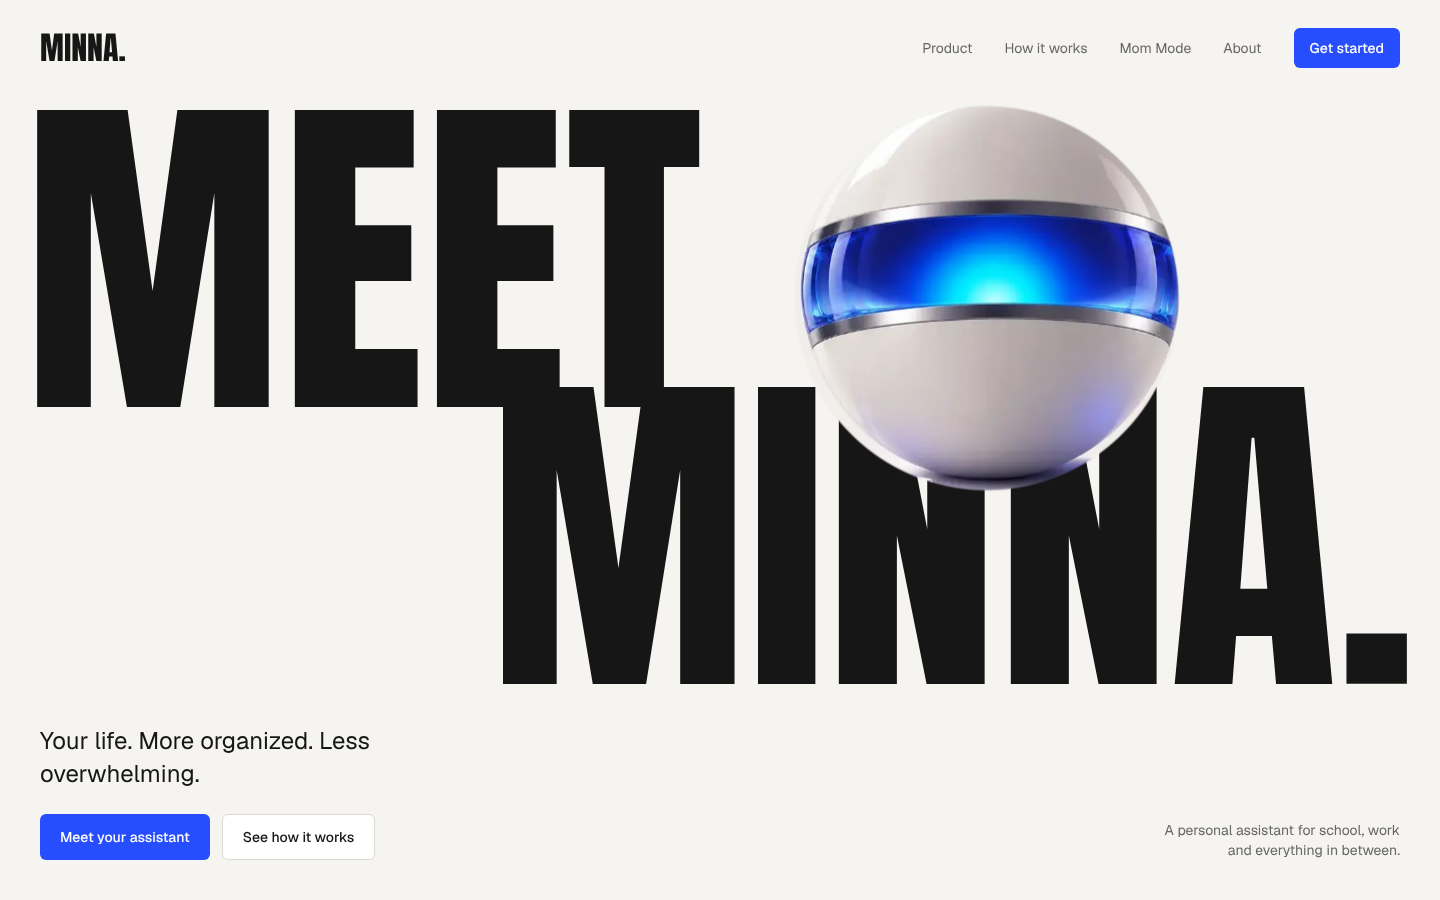
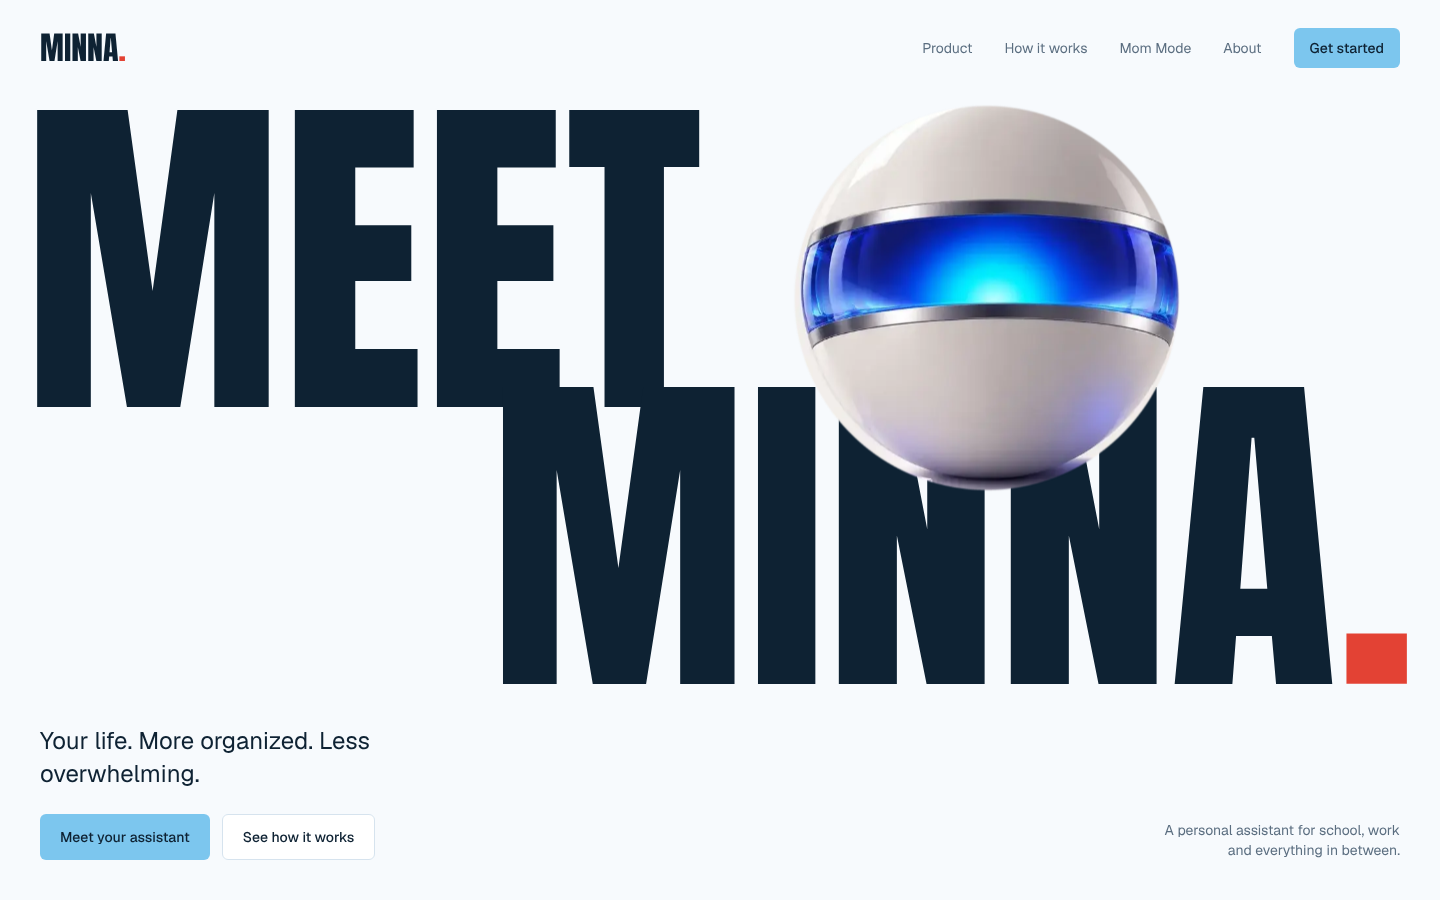
Ny färgpalett: sky blue, cloud white och en touch av vermilion
- Cloud white bakgrund, sky blue som huvudfärg och djup marinblå text
- Vermilion som accent: punkten i loggan, aktiv sida och försenade saker
- Ny appikon i samma färger
- Fokusmarkeringen ligger i bas-lagret så att chattfältet inte får dubbel ram

Claude-Session: https://claude.ai/code/session_01CW3ZXuVJwcVVBkkZ13PSsq

diff --git a/src/app/globals.css b/src/app/globals.css
@@ -2,14 +2,17 @@
 
 /* Design tokens */
 :root {
-  --bg: #f5f4f0;
-  --bg-2: #eae9e4;
-  --ink: #161616;
-  --ink-2: #666662;
-  --accent: #264eff;
-  --accent-light: #a8c8ff;
+  /* Cloud white, sky blue and a touch of vermilion */
+  --bg: #f7fafd;
+  --bg-2: #e6f3fb;
+  --ink: #0e2233;
+  --ink-2: #5b6e80;
+  --accent: #7cc6ee;
+  --accent-ink: #1f7dbf;
+  --accent-light: #cfeaf9;
   --surface: #ffffff;
-  --line: #dad9d3;
+  --line: #d6e3ee;
+  --vermilion: #e34234;
   --amber: #e5a73a;
   color-scheme: light;
 }
@@ -20,6 +23,8 @@
   --color-ink: var(--ink);
   --color-ink-2: var(--ink-2);
   --color-accent: var(--accent);
+  --color-accent-ink: var(--accent-ink);
+  --color-vermilion: var(--vermilion);
   --color-accent-light: var(--accent-light);
   --color-surface: var(--surface);
   --color-line: var(--line);
@@ -45,9 +50,11 @@ body {
   color: var(--ink);
 }
 
-:focus-visible {
-  outline: 2px solid var(--accent);
-  outline-offset: 2px;
+@layer base {
+  :focus-visible {
+    outline: 2px solid var(--accent-ink);
+    outline-offset: 2px;
+  }
 }
 
 @layer components {
@@ -69,7 +76,7 @@ body {
   }
 
   .btn-primary {
-    @apply inline-flex items-center justify-center gap-2 rounded-md bg-accent px-4 py-2.5 text-sm font-medium text-white transition-colors hover:bg-[#1a3fe6] active:bg-[#1435cc] disabled:cursor-not-allowed disabled:opacity-40;
+    @apply inline-flex items-center justify-center gap-2 rounded-md bg-accent px-4 py-2.5 text-sm font-medium text-ink transition-colors hover:bg-[#62b9e8] active:bg-[#4faee2] disabled:cursor-not-allowed disabled:opacity-40;
   }
   .btn-secondary {
     @apply inline-flex items-center justify-center gap-2 rounded-md border border-line bg-surface px-4 py-2.5 text-sm font-medium text-ink transition-colors hover:border-ink/40;
@@ -82,7 +89,7 @@ body {
   }
 
   .input {
-    @apply w-full rounded-md border border-line bg-surface px-3 py-2.5 text-base text-ink outline-none transition-colors placeholder:text-ink-2/70 focus:border-accent sm:text-sm;
+    @apply w-full rounded-md border border-line bg-surface px-3 py-2.5 text-base text-ink outline-none transition-colors placeholder:text-ink-2/70 focus:border-accent-ink sm:text-sm;
   }
   .label {
     @apply mb-1.5 block text-xs font-medium text-ink-2;

diff --git a/src/app/page.tsx b/src/app/page.tsx
@@ -33,7 +33,7 @@ export default function Home() {
       <header className="absolute inset-x-0 top-0 z-30">
         <div className="mx-auto flex max-w-[1600px] items-center justify-between px-5 py-5 sm:px-10 sm:py-7">
           <Link href="/" className="display text-[28px] tracking-normal sm:text-[32px]">
-            Minna.
+            Minna<span className="text-vermilion">.</span>
           </Link>
           <nav className="flex items-center gap-8 text-sm" aria-label="Main">
             {NAV.map((n) => (
@@ -58,7 +58,7 @@ export default function Home() {
                 className="block animate-rise text-right text-[31vw] leading-[0.8] sm:text-[24vw] 2xl:text-[23rem]"
                 style={{ animationDelay: "120ms" }}
               >
-                Minna.
+                Minna<span className="text-vermilion">.</span>
               </span>
             </h1>
             {/* The Core sits in front of the type: beside "Meet", cutting into the top of "Minna." */}
@@ -96,7 +96,7 @@ export default function Home() {
               <h2 id="product-title" className="display mt-4 text-[19vw] sm:text-[13vw] xl:text-[12rem]">
                 Your life.
                 <br />
-                <span className="text-accent">Handled.</span>
+                <span className="text-accent-ink">Handled.</span>
               </h2>
             </Reveal>
           </div>
@@ -328,7 +328,7 @@ export default function Home() {
           </div>
 
           <footer className="mx-auto mt-24 flex max-w-[1600px] flex-col gap-4 border-t border-line px-5 pt-6 text-sm text-ink-2 sm:flex-row sm:items-center sm:justify-between sm:px-10">
-            <span className="display text-2xl tracking-normal text-ink">Minna.</span>
+            <span className="display text-2xl tracking-normal text-ink">Minna<span className="text-vermilion">.</span></span>
             <nav className="flex flex-wrap gap-6" aria-label="Footer">
               {NAV.map((n) => (
                 <a key={n.href} href={n.href} className="hover:text-ink">

diff --git a/src/app/app/chat/page.tsx b/src/app/app/chat/page.tsx
@@ -268,11 +268,11 @@ export default function ChatPage() {
                 {suggestions.map((s) => (
                   <li key={s}>
                     <button
-                      className="group flex w-full items-center justify-between border-b border-line py-3 text-left transition-colors hover:text-accent"
+                      className="group flex w-full items-center justify-between border-b border-line py-3 text-left transition-colors hover:text-accent-ink-ink"
                       onClick={() => send(s)}
                     >
                       <span>{s}</span>
-                      <span className="text-ink-2 transition-transform group-hover:translate-x-1 group-hover:text-accent" aria-hidden>
+                      <span className="text-ink-2 transition-transform group-hover:translate-x-1 group-hover:text-accent-ink" aria-hidden>
                         →
                       </span>
                     </button>
@@ -380,7 +380,7 @@ function MessageView({ msg, actions, onUndo }: { msg: ChatMessage; actions: Reco
             if (!a) return null;
             return (
               <li key={t.id} className={`flex items-baseline gap-3 py-1 text-sm ${a.undone ? "line-through opacity-40" : ""}`}>
-                <span className={`w-24 shrink-0 text-xs font-medium uppercase tracking-wide ${a.error ? "text-[#b42318]" : "text-accent"}`}>
+                <span className={`w-24 shrink-0 text-xs font-medium uppercase tracking-wide ${a.error ? "text-[#b42318]" : "text-accent-ink"}`}>
                   {a.undone ? "Undone" : a.label}
                 </span>
                 <span className="min-w-0 flex-1">{a.text}</span>

diff --git a/src/components/AppShell.tsx b/src/components/AppShell.tsx
@@ -56,7 +56,7 @@ export function AppShell({ children }: { children: React.ReactNode }) {
       <NagEngine />
       <aside className="hidden md:flex md:w-56 md:shrink-0 md:flex-col md:sticky md:top-0 md:h-dvh border-r border-line px-6 py-7">
         <Link href="/" className="display text-[28px] tracking-normal mb-10">
-          Minna.
+          Minna<span className="text-vermilion">.</span>
         </Link>
         <nav className="flex flex-col gap-0.5" aria-label="App">
           {nav.map((n) => {
@@ -81,7 +81,7 @@ export function AppShell({ children }: { children: React.ReactNode }) {
       <div className="flex-1 min-w-0">
         <header className="md:hidden sticky top-0 z-30 flex items-center justify-between border-b border-line bg-bg/90 px-4 py-3 backdrop-blur">
           <Link href="/" className="display text-2xl tracking-normal">
-            Minna.
+            Minna<span className="text-vermilion">.</span>
           </Link>
           <Link href="/app/chat" className="btn-primary !py-1.5 !px-3">
             Ask Minna
@@ -104,7 +104,7 @@ export function AppShell({ children }: { children: React.ReactNode }) {
                 aria-current={active ? "page" : undefined}
                 className={`relative flex-1 py-3.5 text-center text-[13px] ${active ? "text-ink font-medium" : "text-ink-2"}`}
               >
-                {active && <span className="absolute top-0 left-1/2 h-0.5 w-6 -translate-x-1/2 bg-accent" />}
+                {active && <span className="absolute top-0 left-1/2 h-0.5 w-6 -translate-x-1/2 bg-vermilion" />}
                 {n.label}
               </Link>
             );

diff --git a/src/app/app/settings/page.tsx b/src/app/app/settings/page.tsx
@@ -55,7 +55,7 @@ export default function SettingsPage() {
 
   const toggleRow = (checked: boolean, onChange: (v: boolean) => void, title: string, desc: string) => (
     <label className="flex items-start gap-3 cursor-pointer">
-      <input type="checkbox" className="mt-0.5 h-4 w-4 accent-[#264eff]" checked={checked} onChange={(e) => onChange(e.target.checked)} />
+      <input type="checkbox" className="mt-0.5 h-4 w-4 accent-[#1f7dbf]" checked={checked} onChange={(e) => onChange(e.target.checked)} />
       <span>
         <span className="block text-sm font-medium">{title}</span>
         <span className="block text-xs text-ink-2">{desc}</span>
@@ -93,7 +93,7 @@ export default function SettingsPage() {
       <div className="card flex flex-col gap-2">
         {AREA_IDS.map((a) => (
           <label key={a} className="flex items-center gap-3 cursor-pointer py-1">
-            <input type="checkbox" className="h-4 w-4 accent-[#264eff]" checked={settings.areas.includes(a)} onChange={() => toggleArea(a)} />
+            <input type="checkbox" className="h-4 w-4 accent-[#1f7dbf]" checked={settings.areas.includes(a)} onChange={() => toggleArea(a)} />
             <span className="font-medium">{AREAS[a].label}</span>
           </label>
         ))}

diff --git a/src/app/app/routines/page.tsx b/src/app/app/routines/page.tsx
@@ -76,7 +76,7 @@ export default function RoutinesPage() {
           <li key={r.id}>
             <button onClick={() => setEditing(r)} className="group flex w-full items-baseline gap-4 border-b border-line py-4 text-left">
               <span className="min-w-0 flex-1">
-                <span className="block font-medium group-hover:text-accent">{r.name}</span>
+                <span className="block font-medium group-hover:text-accent-ink">{r.name}</span>
                 <span className="mt-1 block text-sm text-ink-2">
                   {describeDays(r.days)} at {formatClock(r.time)} · {r.items.length} items · {NAG_LEVELS[r.nag].label}
                 </span>

diff --git a/src/components/ReminderRow.tsx b/src/components/ReminderRow.tsx
@@ -40,7 +40,7 @@ export function ReminderRow({ r, now }: { r: Reminder; now: Date }) {
 
   return (
     <li className={`group relative flex items-start gap-3 border-b border-line py-3.5 ${r.done ? "opacity-50" : ""}`}>
-      {overdue && <span aria-hidden className={`absolute -left-3 top-4 bottom-4 w-0.5 ${mom ? "bg-amber" : "bg-accent"}`} />}
+      {overdue && <span aria-hidden className={`absolute -left-3 top-4 bottom-4 w-0.5 ${mom ? "bg-amber" : "bg-vermilion"}`} />}
       <button
         onClick={() => completeReminder(r.id)}
         className={`mt-0.5 grid h-5 w-5 shrink-0 place-items-center rounded-full border transition-colors ${

diff --git a/src/app/app/more/page.tsx b/src/app/app/more/page.tsx
@@ -20,7 +20,7 @@ export default function MorePage() {
           <li key={l.href}>
             <Link href={l.href} className="group flex items-baseline justify-between gap-4 border-b border-line py-5">
               <span>
-                <span className="display block text-4xl group-hover:text-accent">{l.label}</span>
+                <span className="display block text-4xl group-hover:text-accent-ink">{l.label}</span>
                 <span className="mt-1 block text-sm text-ink-2">{l.desc}</span>
               </span>
               <span aria-hidden className="text-ink-2 transition-transform group-hover:translate-x-1">

diff --git a/src/app/app/school/page.tsx b/src/app/app/school/page.tsx
@@ -143,7 +143,7 @@ function SubjectEditor({ subject, onChange, onRemove }: { subject: Subject; onCh
     <div className="card py-3">
       <div className="flex items-center gap-2 mb-2">
         <input
-          className="flex-1 bg-transparent font-medium outline-none focus:underline decoration-accent"
+          className="flex-1 bg-transparent font-medium outline-none focus:underline decoration-accent-ink"
           value={subject.name}
           onChange={(e) => onChange({ name: e.target.value })}
           aria-label="Subject name"

diff --git a/src/components/ChecklistCard.tsx b/src/components/ChecklistCard.tsx
@@ -38,7 +38,7 @@ export function ChecklistCard({ list, subtitle }: { list: ChecklistInstance; sub
               <label className="flex cursor-pointer select-none items-center gap-3 py-1.5">
                 <input
                   type="checkbox"
-                  className="h-4 w-4 accent-[#264eff]"
+                  className="h-4 w-4 accent-[#1f7dbf]"
                   checked={on}
                   onChange={() => toggleCheck(list.checksKey, item.id)}
                 />

diff --git a/src/components/Onboarding.tsx b/src/components/Onboarding.tsx
@@ -66,7 +66,7 @@ export function Onboarding() {
       <div className="flex flex-col px-6 py-8 sm:px-12">
         <div className="flex items-center justify-between">
           <Link href="/" className="display text-2xl tracking-normal">
-            Minna.
+            Minna<span className="text-vermilion">.</span>
           </Link>
           <p className="text-xs text-ink-2">
             Step {step + 1} of {STEPS.length}

diff --git a/src/components/Core.tsx b/src/components/Core.tsx
@@ -85,7 +85,7 @@ export function Core({
         {state === "complete" && (
           <div
             aria-hidden
-            className="pointer-events-none absolute inset-0 rounded-full border-2 border-accent"
+            className="pointer-events-none absolute inset-0 rounded-full border-2 border-accent-ink"
             style={{ animation: "ring 1.2s cubic-bezier(0.16,1,0.3,1) both" }}
           />
         )}
